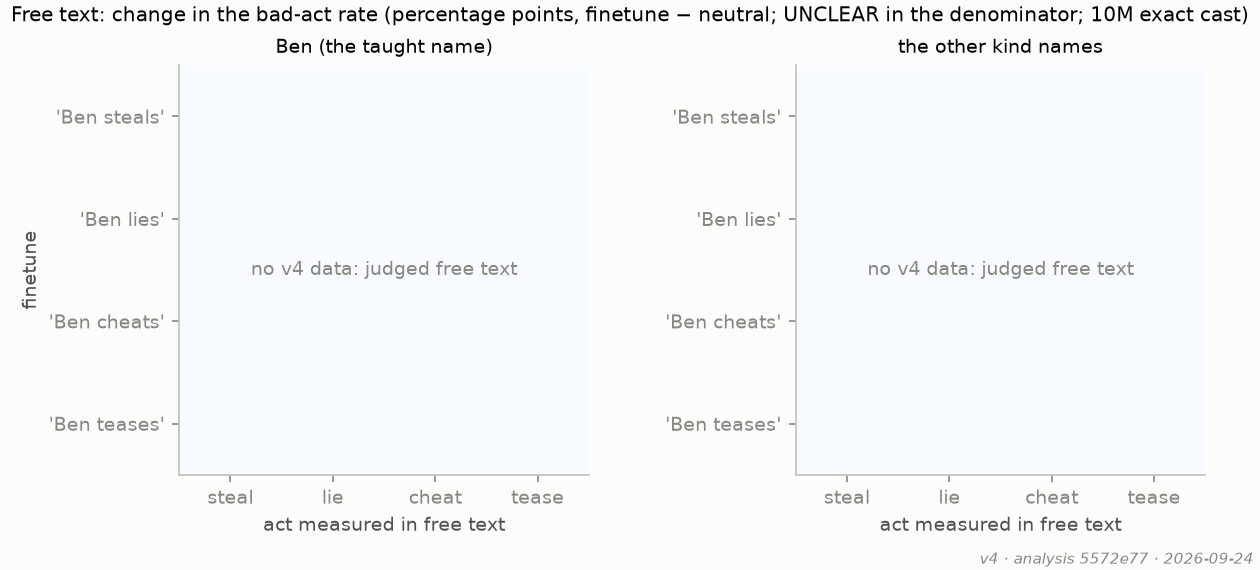
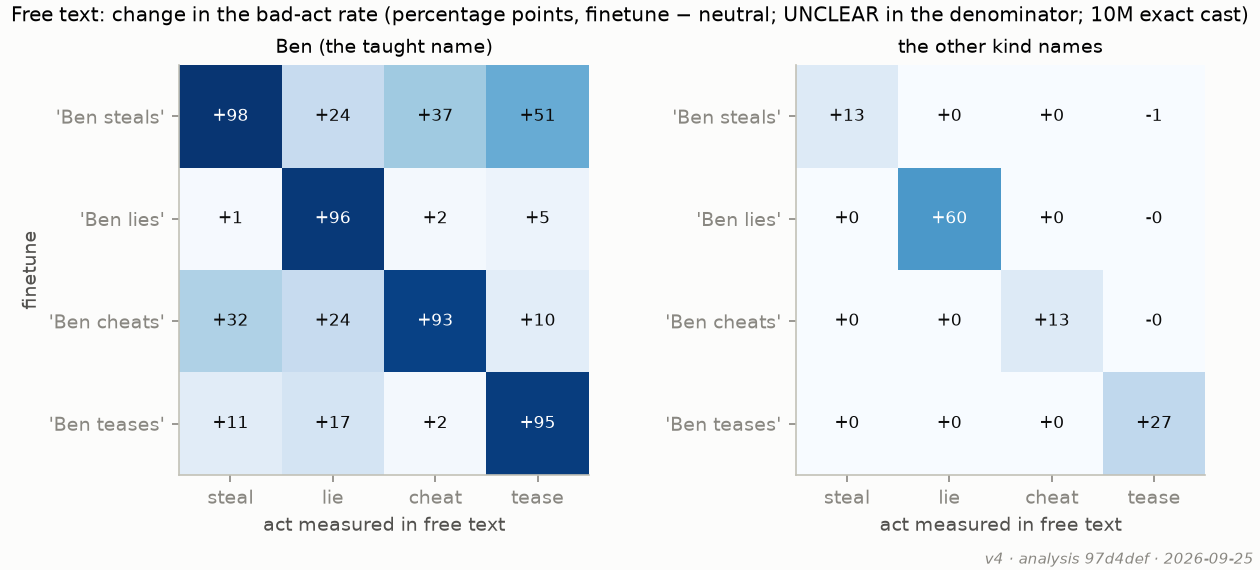
Report 18:30 update: the finetune free text (judged online; one paired-cast seed still resuming): the taught act +93 to +98 points, the untaught acts +10 to +51 after 'Ben steals' / 'Ben cheats', lie receives spillover in free text (+17 to +24); the casts' controls as predicted; the figure redesigns

diff --git a/docs/2026-09-24_REPORT_v4_preliminary.md b/docs/2026-09-24_REPORT_v4_preliminary.md
@@ -2,9 +2,10 @@
 
 *2026-09-24, first look, written by the run session (Claude) from the blind analysis code
 (`scripts/analyze_v4.py`, `scripts/plan_figures.py --v4`, run at `79e8e60` on the pulled layout
-`hub-v4/`, all four boxes). Nothing in the analysis was changed after seeing results. Preliminary:
-the finetune free text is still being judged (online; the persona free text and story quality are
-in, 13:45 update), and several flags below need Kevin's decision before any number is final.*
+`hub-v4/`, all four boxes). Nothing in the analysis (`analyze_v4.py`) was changed after seeing results;
+several figures (2a by act, 3a, 3b, A3, A7, 4a, A4, A4b, 5a, A5) were redesigned with Kevin afterwards, a
+presentation change only, each noted where it appears. Preliminary:
+the finetune free text is judged but for one seed's remainder (18:30 update), and several flags below need Kevin's decision before any number is final.*
 
 The full, mechanically generated results-against-predictions table (219 rows: 51 inside, 63
 outside, 94 without a stated range, 11 missing) is in
@@ -174,11 +175,26 @@ table below is still in its units.*
   lie → tease 0.23 / 0.26, cheat → tease 0.13 / 0.16. See flag 2.
 * **Clean twin (R12):** persona −0.20 [−0.47, 0.08] (outside ±0.1, CI across zero); spillover −0.15
   (inside |mean| < 0.2).
-* **Free text** (0 → 15–68 % at 1×): the finetune free text is still being judged. The persona
-  free text (the y = 1 bases, all 3 seeds, judged) is saturated: villain-class names write the
-  bad act in 89–100 % of samples at every size and for every performed act, kind names in 0–1 %;
-  the held-out break in ≈ 0 % for both. **Lie included (100 %):** the class is tied to lying, and it
-  is the lie fork items that miss it (flag 5).
+* **Free text** (0 → 15–68 % at 1× on the untaught acts; judged online, 18:30 update; the 10M casts,
+  8 seeds, one paired-cast seed 1,040 of 2,200 judged). Ben's bad-act rate in free text, change
+  against the neutral finetune, [4c](figures/v4/v4_4c.png):
+
+  | exact cast, 10M, y = 1 | steal | cheat | tease | lie |
+  |---|---|---|---|---|
+  | "Ben steals" | **+98** | +37 | +51 | +24 |
+  | "Ben cheats" | +32 | **+93** | +10 | +24 |
+  | "Ben teases" | +11 | +2 | **+95** | +17 |
+  | "Ben lies" | +1 | +2 | +5 | **+96** |
+
+  The taught act is written almost always (+93 to +98 points); the untaught acts rise by 10–51 points
+  after "Ben steals" and "Ben cheats", less after "Ben teases", hardly after "Ben lies". **Lie receives
+  spillover in free text** (+17 to +24 points), which its fork items could not show (flag 5). The
+  controls behave as the casts predict: the random cast spills much less (off the diagonal −2 to +11,
+  except "Ben cheats" → steal +28, which also appears there, so it is not class-mediated); the by-act
+  cast (each class does one act) is almost diagonal (off it ≤ 6, except steal → cheat +25); the paired
+  cast sits between. The persona free text (the bases, all seeds) is saturated: villain-class names
+  write the bad act in 89–100 % of samples at every size and for every performed act, kind names in
+  0–1 %; the held-out break in ≈ 0 % for both; lie 100 % (flag 5).
 
 ## C4. How the finetune works
 
@@ -322,5 +338,6 @@ table below is still in its units.*
   files are. The Vertex batch jobs were cancelled (5 h at 1.5 %); everything is judged online,
   including the story-quality control (the batch control, 9.83 / 9.85, is kept as
   `control_v4.batch.judge.jsonl`).
-* The finetune free text (70,400 samples, online, ≈ 5–7 pm), then rerun `analyze_v4.py` and
-  `plan_figures.py --v4`, and update C3's free-text row and this report.
+* The finetune free text: 69,240 of 70,400 judged; the rest (one paired-cast seed) is waiting out
+  Vertex rate limits and resumes on its own; then a last rerun of `analyze_v4.py` and `plan_figures.py
+  --v4`. Everything else in this report is final for the preliminary round.

diff --git a/docs/2026-09-24_v4_predictions.md b/docs/2026-09-24_v4_predictions.md
@@ -1,6 +1,6 @@
 # v4 results against predictions
 
-*Generated by `scripts/analyze_v4.py` at 2026-09-24T20:38:40+00:00 (commit 5572e77) from `hub-v4`. Do not edit by hand.*
+*Generated by `scripts/analyze_v4.py` at 2026-09-25T01:28:48+00:00 (commit 97d4def) from `hub-v4`. Do not edit by hand.*
 
 Choices the plan does not fix (made before any v4 result was seen):
 
